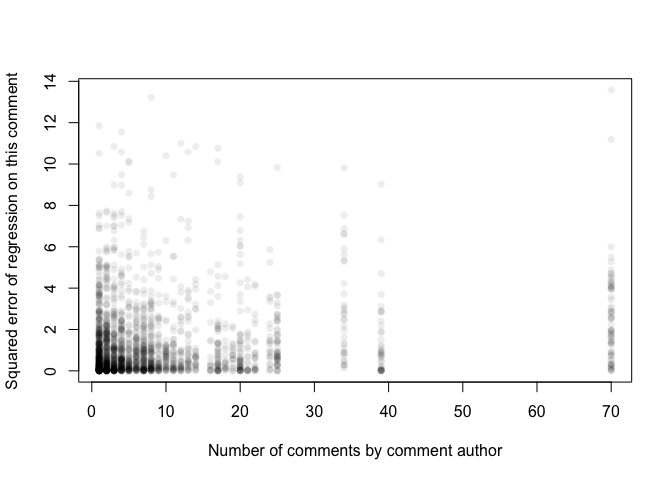
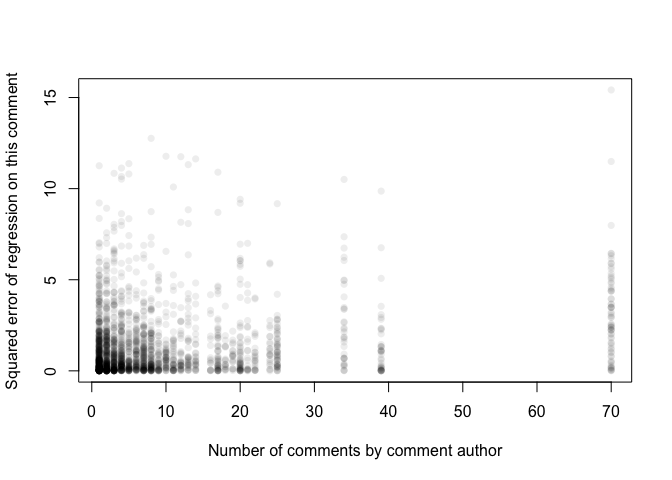
adding feature importance, removing user_id as a feature

diff --git a/Rmd/yourview.md b/Rmd/yourview.md
@@ -89,8 +89,9 @@ comments.df2 <- comments.df[, selected.vars]
 Check out the distribution of comments per user. Note there are a few users with many comments
 
 ``` r
-many.comments <- table(comments.df$user_id)
-hist(many.comments, breaks=75, xlab="Number of comments", ylab="Users with X comments")
+many.comments <- comments.df[, c("user_id", "commenter_top_level_comment_count")]
+many.comments <- many.comments[-which(duplicated(many.comments)), ]
+hist(many.comments$commenter_top_level_comment_count, breaks=75, xlab="Number of comments", ylab="Users with X comments", main="Users with X many comments")
 ```
 
 ![](yourview_files/figure-markdown_github-ascii_identifiers/prolific_users-1.png)
@@ -138,6 +139,9 @@ fld <- vector(mode="numeric", length=nrow(comments.df2))
 for (i in 1:10) {
   fld[which(comments.df2$user_id %in% users[flds[[i]]])] <- i
 }
+
+# remove user_id from dataset
+comments.df2$user_id <- NULL
 ```
 
 For each of the 10 folds, build a random forest using 90% of the data, and use that to predict evaluation scores for the remaining 10% of the data.
@@ -145,19 +149,29 @@ For each of the 10 folds, build a random forest using 90% of the data, and use t
 ``` r
 # create empty vector to hold the predicitons
 predicted <- vector(mode="numeric", length=nrow(comments.df2))
-
+forest.list <- list()
 for (i in 1:10) {
   # build training set and test set
   train.set <- fld %in% setdiff(1:10, i)
   test.set <- fld == i
   
   # build random forest using ranger package, on training data
-  forest <- ranger(raw_evaluation ~ ., comments.df2[train.set, ])
+  forest <- ranger(raw_evaluation ~ ., comments.df2[train.set, ], 
+                   importance="permutation")
   
   # save predictions on the test set
   test.pred <-  predict(forest, subset(comments.df2, subset=test.set, 
                                                 select=-c(raw_evaluation)))
   predicted[test.set] <- test.pred$predictions
+  
+  # save random forest model so we can average feature importances across models
+  forest.list[[i]] <- forest
+  
+  if (i == 1) {
+    importances <- data.frame(importance(forest))
+  } else {
+    importances <- cbind(importances, importance(forest))
+  }
 }
 ```
 
@@ -169,7 +183,7 @@ Correlation between predicted and true values
 cor(comments.df2$raw_evaluation, predicted)
 ```
 
-    ## [1] 0.745962
+    ## [1] 0.7389032
 
 R squared
 
@@ -177,7 +191,7 @@ R squared
 cor(comments.df2$raw_evaluation, predicted)^2
 ```
 
-    ## [1] 0.5564593
+    ## [1] 0.5459779
 
 Mean squared error
 
@@ -185,7 +199,7 @@ Mean squared error
 sum((comments.df2$raw_evaluation - predicted)^2) / nrow(comments.df2)
 ```
 
-    ## [1] 1.389024
+    ## [1] 1.428282
 
 Mean absolute error
 
@@ -193,7 +207,21 @@ Mean absolute error
 sum(abs(comments.df2$raw_evaluation - predicted)) / nrow(comments.df2)
 ```
 
-    ## [1] 0.9608684
+    ## [1] 0.9759038
+
+``` r
+impt <- as.data.frame(rowMeans(importances))
+names(impt)[1] <- "Importance"
+impt <- impt[order(impt$Importance, decreasing=T), "Importance", drop=F]
+impt$Variable <- row.names(impt)
+impt$Variable <- as.factor(impt$Variable)
+ggplot(impt, aes(Variable, Importance)) +
+  geom_col()  + 
+  theme(axis.text.x=element_text(angle=90, hjust=1)) +
+  labs(x="Variable", y="Relative Importance")
+```
+
+![](yourview_files/figure-markdown_github-ascii_identifiers/importances-1.png)
 
 You might think the residual error is related to how much info we have about each commenter. There is a correlation between the error and the number of comments a person made, but it is quite small:
 
@@ -202,7 +230,7 @@ cor(comments.df2$commenter_top_level_comment_count,
      (comments.df2$raw_evaluation - predicted)^2)
 ```
 
-    ## [1] 0.1429072
+    ## [1] 0.1800308
 
 In fact, all single variables have very small correlations with the error:
 
